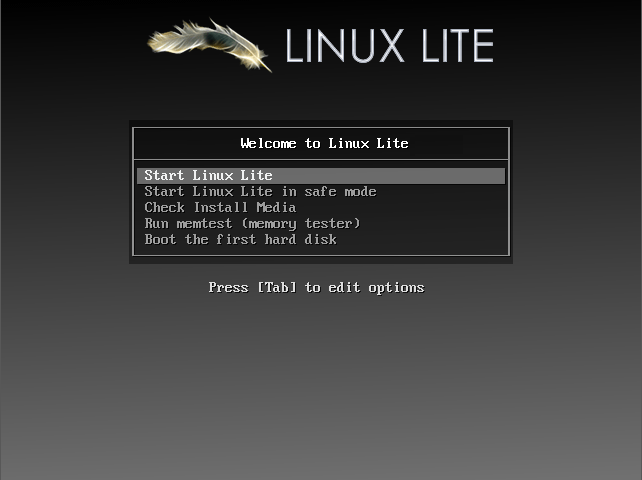
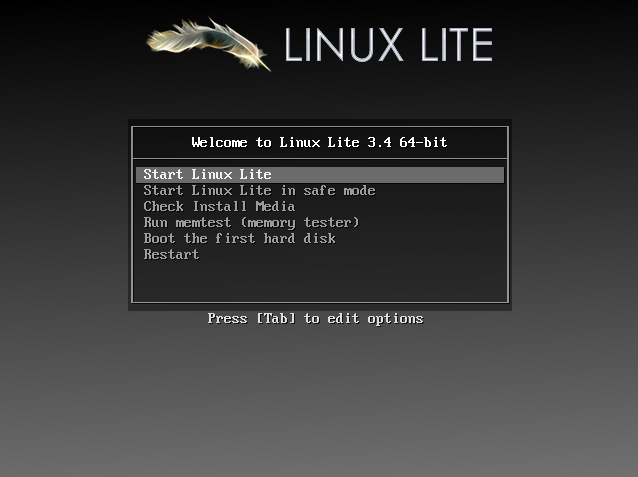
minor wording, formatting corrections (Install page)

diff --git a/usr/share/doc/litemanual/install.html b/usr/share/doc/litemanual/install.html
@@ -96,7 +96,7 @@ i    {font-style: italic;}
 										<a href="#automountpartdrives">&emsp;- Automount Drives &amp; Partitions for all users</a><br />
 										<a href="#automountwinpartdrives">&emsp;- Automount Windows Partitions for all users</a><br />
 										<a href="#mountcontrolaccess">&emsp;- Controlling Access to Mounted Drives - Advanced Users</a><br />
-					<a href="#plop">No USB Boot option in the Bios?</a><br />
+					<a href="#plop">No USB Boot option in the BIOS?</a><br />
             				<a href="#prepareinst">Preparing your Computer</a><br />
             				<a href="#userdel">Removing a User</a><br />
             				<a href="#respassword">Resetting your Password</a><br />
@@ -129,11 +129,15 @@ i    {font-style: italic;}
 					<h2><a name="llusbwin">Writing the Linux Lite ISO to USB on Windows</a></h2>
 					<p><b>Win32DiskImager </b>allows you to create a bootable Live USB drive. Download it
 					from <a href="https://sourceforge.net/projects/win32diskimager/files/latest/download" target="_blank">here</a>.</p>
+					
+					<p>(Internet connection required to view video)</p>
+					<iframe width="560" height="315" src="https://www.youtube.com/embed/SdWr-aolCSA" frameborder="0" allowfullscreen></iframe><br>
 
 					<h2><a name="lldvdusbosx">Writing the Linux Lite ISO to USB in Linux and OSX</a></h2>
 					<p>To find out the letter of your USB stick, open a terminal and type: <b>df -h</b> It is usually listed as <b>media</b> or similar.
 					Be very careful to make sure you choose the right drive letter, as you can see in the Filesystem column, my device is sdb another
-					clue is the value in the Size column, here it is shown as 15G. In this example my device is a TDK 15gb USB stick.</p>
+					clue is the value in the Size column, here it is shown as 15G. In this example my device is listed as:</p>
+					<p><b>/media/jerry/9CB5-8A70</b></p>
 					<p><img src="images/install/df-h.png"></p>
 
 					<p>Open a folder and make sure you are in the directory that the iso file is in. Open a terminal in that directory and type the following:</p>
@@ -146,16 +150,22 @@ i    {font-style: italic;}
 						<pre style="margin: 0; padding: 0;">
 						<code style="overflow: scroll;" class="bbc_code">sudo dd if=linux-lite-3.4-64bit.iso of=/dev/sdx bs=4M</code></pre><br>
 
-					<p>Change the <b>x</b> in <b>sdx</b> to match the letter of your USB device.</p>
+					<p>Change the <b>x</b> in <b>sdx</b> to match the letter of your USB device. In the above example, my device is shown as <b>sdd1</b> (leave out the '1')</p>
+					
+					<p><b>Example</b></p>
+						<div class="codeheader">Terminal Command:</div>
+						<pre style="margin: 0; padding: 0;">
+						<code style="overflow: scroll;" class="bbc_code">sudo dd if=linux-lite-3.4-32bit.iso of=/dev/sdd bs=4M</code></pre><br>
+						
 					<p>The Live DVD/USB image will boot into the desktop automatically, there is no need to login manually.</p>
 
-					<h2><a name="plop">No USB Boot option in the Bios? Use PloP</a></h2>
-					<p>For full instructions click <a href="http://www.howtogeek.com/howto/16822/boot-from-a-usb-drive-even-if-your-bios-wont-let-you/" target="_blank">here</a>.</p>
+					<h2><a name="plop">No USB Boot option in the BIOS? Use PloP</a></h2>
+					<p>For full instructions click <a href="http://www.howtogeek.com/howto/16822/boot-from-a-usb-drive-even-if-your-BIOS-wont-let-you/" target="_blank">here</a>.</p>
 
 					<h2><a name="prepareinst">Preparing your Computer for the Installation</a></h2>
 					<p>If you are planning to have Linux Lite as the sole operating system on your computer, there is nothing special you need to do in preparation for the
-					installation - even if another operating system is currently occupying the hard drive. Simply boot up your live installation disk, give Linux Lite a test run if you'd
-					like, then start the installation by double-clicking the <b>Install</b> icon on the desktop. When you get to the <b>Installation Type</b> screen, tell the installer to use the
+					installation, even if another operating system is currently occupying the hard drive. Simply boot up your live installation disk, give Linux Lite a test run if you'd
+					like, then start the installation by double-clicking the <b>Install Linux Lite</b> icon on the desktop. When you get to the <b>Installation Type</b> screen, tell the installer to use the
 					whole disk and it will go ahead and erase anything that is already there, create the partitions needed, format them and install the system automatically.</p>
 
 					<p>If you currently have one physical hard drive and want to dual-boot Windows and Linux Lite, then you should do a few things to prepare for the installation to insure the best results.</p>
@@ -169,9 +179,9 @@ i    {font-style: italic;}
 							<li><i>  </i>If you plan to have the shrinking done by the installer, it is still recommended that you defragment the Windows partition ahead of time.</li>
 						</ul><br>
 
-          				<p>If you have <b><u>more than one</u> physical hard drives</b> and want to dual-boot Windows and Linux Lite, with Linux on its own dedicated physical drive, then
+          				<p>If you have <b>more than one physical hard drive</b> and want to dual-boot Windows and Linux Lite, with Linux Lite on its own dedicated physical drive, then
 					we recommend you make a request for guidance in our <a href="https://www.linuxliteos.com/forums/" target="_blank">Forum</a> if you are unfamiliar with
-					Linux installations. Otherwise, general instructions for such an installation are listed below.</p>
+					Linux based installations. Otherwise, general instructions for such an installation are listed below.</p>
 
 					<ul class="feature-grid">
 							<li><i> </i>Choose "Something else" on the "Installation Type" screen during installation. (See instructions in following section for pictures of installation stages.)</li>
@@ -187,28 +197,27 @@ i    {font-style: italic;}
 					<p><a href="#top">Top of page</a></p>
 
 					<h2><a name="instllcomp">Installing Linux Lite to your computer</a></h2>
-              				<p>Start your computer, and go into your system Bios and check that the boot order is set so that DVD and USB devices are set to boot first.
-		  			This varies from bios to bios. Refer to your motherboard documentation for more information.</p>
+              				<p>Start your computer, and go into your system BIOS and check that the boot order is set so that DVD and USB devices are set to boot first.
+		  			This varies from BIOS to BIOS. Refer to your motherboard documentation for more information.</p>
 
-            				<p>Once you are happy with your bios set up, insert the DVD disc or USB stick into your computer and reboot your computer. You'll be greeted
+            				<p>Once you are happy with your BIOS set up, insert the DVD disc or USB stick into your computer and reboot your computer. You'll be greeted
 					with the following screen. Let the timer run down if you want to boot to the Live session.</p>
           				<p><img src="images/install/installwizard/boot2.png"></p>
 
           				<p>Make sure <b>Start Linux Lite</b> is highlighted, press the enter key to boot the Live session. This is also a good way to check that
 		  			all of your hardware is supported. If you are having trouble booting and you get just a black screen, try the second option, <b>Start Linux
-		  			Lite in safe graphics mode</b>.</p>
+		  			Lite in safe mode</b>.</p>
 
           				<p>The other options are:</p>
             				<p><b>Check Install Media</b> - run this to check that the Linux Lite image is free from errors.<br />
-		  			<b>Run memtest</b> - Test your computer memory for faults.<br />
+		  			<b>Run memtest (memory tester)</b> - Test your computer memory for faults.<br />
             				<b>Boot the first hard disk</b> - boot the existing operating system.<br />
             				<b>Restart</b> - reboot your computer.<br />
             				<!-- <b>Shutdown</b> - turn off your computer.</p> -->
           				<p><b>NOTE: If you are having any trouble booting Linux Lite after installation, please read through <a href="hardware.html#installissues">this trouble shooting guide</a></b>.</p>
 
             				<p>The computer will go through the boot up process, this may take anywhere from a few seconds to a couple of minutes depending on your
-		  			hardware. The login for the Live user is automatic, there is no need to login. An explanation of the various Menu's can be found by
-		  			clicking <a href="start.html#menus">here</a>.</p>
+		  			hardware. The login for the Live user is automatic, there is no need to login. If for some reason you need to login, simply type in <b>linux</b> beneath <b>Other</b> and click on <b>Log In</b> (no password required).</p>
 
           				<p>Before we proceed, make sure you have an internet connection first. Click <a href="network.html">here</a> if you need help to get online before you install Linux Lite.</p>
 
@@ -223,11 +232,11 @@ i    {font-style: italic;}
 		  			viewing a check mark beside them. You may also choose to download any available updates while installing or install third-party software
 		  			during the installation.</p>
 
-          				<p><b>NOTE: Generally we don't recommend ticking 'Download updates while installing Linux' as this will significantly
+          				<p><b>NOTE: Generally we don't recommend ticking '<i>Download updates while installing Linux</i>' as this will significantly
 					slow down the install process. Updating after a fresh install is recommended and will save you time in the long run. A typical install  on today's hardware will take
 					around 10-15 minutes. If you check these 2 boxes, the install could take over an hour or longer.</b></p>
 
-					<p><b>NOTE: 'Install third-party software for graphics and Wi-Fi hardware, Flash, MP3 and other media'
+					<p><b>NOTE: '<i>Install third-party software for graphics and Wi-Fi hardware, Flash, MP3 and other media</i>'
 					Please verify the legal status of the use of the third party software in your country/territory before choosing this option. This option will install codecs for playing
 					media files, and proprietary drivers for some of your hardware. It is a legal requirement for us to inform you of this.</b></p>
 
@@ -684,7 +693,7 @@ i    {font-style: italic;}
 
 
 					<h2><a name="adduser">Adding another User</a></h2>
-          				<p>To add another User to Linux Lite, click on <b>Menu, Settings, User Manager</b>. Then click on <b>New user</b> and enter a name, and the same password twice.</p>
+          				<p>To add another User to Linux Lite, click on <b>Menu, Settings, Lite User Manager</b>. Then click on <b>Add New User</b> and enter a name, and the same password twice.</p>
           				<p><b>NOTE: Choose a strong password, a mix of upper and lower case as well as a mix of numbers and characters. An example of this would be:</p>
 						<div class="codeheader"></div>
 						<pre style="margin: 0; padding: 0;">
@@ -710,8 +719,8 @@ i    {font-style: italic;}
           				<h2><a name="userdel">Removing a User</a></h2>
           				<p><b>NOTE: Before removing a user account make sure their files are backed up to a usb device or the cloud first. Removing an account
 		  			also removes all that persons documents, pictures, videos, files etc.</b></p>
-          				<p>This is as easy as selecting the user that you want to remove from the <b>Select user</b> drop down box, clicking on <b>Remove this user</b> and clicking on <b>Apply</b>.
-					If you are asked for <b>your</b> password, please enter it and then click <b>Ok</b>. Next a confirmation box will appear, read the message and if you want to proceed click on <b>Yes</b>.
+          				<p>This is as easy as selecting the user that you want to remove from the <b>Select user</b> drop down box, clicking on <b>Remove selected user</b> and clicking on <b>Apply</b>.
+					If you are asked for your password, please enter it and then click <b>Ok</b>. Next a confirmation box will appear, read the message and if you want to proceed click on <b>Yes</b>.
 		  			The user account and all their data has now been removed.</p>
           				<p><img src="images/install/user/liteuser4.png"></p>
 
